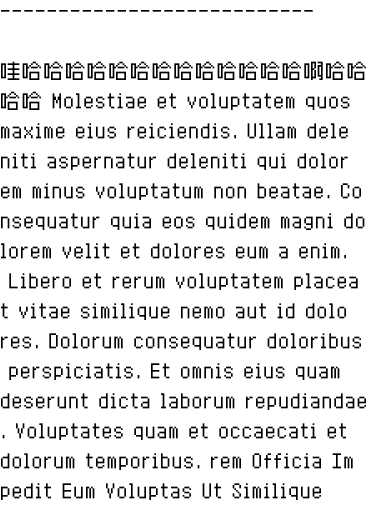
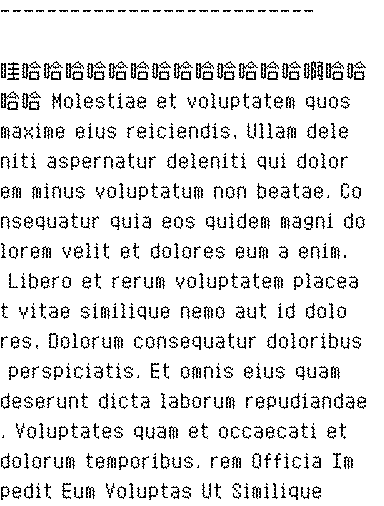
chore

diff --git a/src/dither.rs b/src/dither.rs
@@ -1,4 +1,3 @@
-use image::imageops::{dither, BiLevel};
 use image::GrayImage;
 
 pub struct DitherApply {
@@ -7,117 +6,14 @@ pub struct DitherApply {
 }
 
 impl DitherApply {
-    pub fn new(mut buff: GrayImage) -> Self {
-        dither(&mut buff, &BiLevel);
-
+    pub fn new(buff: GrayImage) -> Self {
         DitherApply {
             size: buff.dimensions(),
             buff,
         }
     }
 
-    // pub fn get_value(&self, x: u32, y: u32) -> u8 {
-    //     let [r, g, b] = self.buff.get_pixel(x, y).0;
-    //     ((r as u16 + g as u16 + b as u16) / 3) as u8
-    // }
-    //
-    // pub fn set_value(&mut self, x: u32, y: u32, value: u8) {
-    //     self.buff.put_pixel(x, y, Rgb([value, value, value]));
-    // }
-    //
-    // pub fn nudge_value(&mut self, x: u32, y: u32, value: i16) {
-    //     let [r, g, b] = self.buff.get_pixel(x, y).0;
-    //
-    //     self.buff.put_pixel(
-    //         x,
-    //         y,
-    //         Rgb([
-    //             (r as i16 + value).clamp(0, 255) as u8,
-    //             (g as i16 + value).clamp(0, 255) as u8,
-    //             (b as i16 + value).clamp(0, 255) as u8,
-    //         ]),
-    //     );
-    // }
-
-    const DITHERBRIGHTNESS: f64 = 0.35;
-    const DITHERCONTRAST: f64 = 3.55;
-    // fn make_apply(&mut self) {
-    //     let (w, h) = self.size;
-    //     let brightness = Self::DITHERBRIGHTNESS;
-    //     let contrast = Self::DITHERCONTRAST * Self::DITHERCONTRAST;
-    //     for y in 0..h {
-    //         for x in 0..w {
-    //             let [r, g, b] = self.buff.get_pixel(x, y).0;
-    //             let mut arr = [r, g, b];
-    //
-    //             for i in 0..3 {
-    //                 let mut t = arr[i] as f64;
-    //                 t += (brightness - 0.5) * 256f64;
-    //                 let t = ((t - 128f64) * contrast + 128f64) as u8;
-    //                 arr[i] = t.clamp(0, 255);
-    //             }
-    //             self.buff.put_pixel(x, y, Rgb(arr));
-    //         }
-    //     }
-    //
-    //     for y in 0..h {
-    //         let bottom_row = y == h - 1;
-    //         for x in 0..w {
-    //             let left_edge = x == 0;
-    //             let right_edge = x == w - 1;
-    //             // let i = (y * w + x) * 4;
-    //             let level = self.get_value(x, y);
-    //             let new_level = if level < 128 { 0 } else { 255 };
-    //
-    //             self.set_value(x, y, new_level);
-    //             let err = level as i16 - new_level as i16;
-    //             if !right_edge {
-    //                 self.nudge_value(x + 1, y, err * 7 / 16);
-    //             }
-    //             if !bottom_row && !left_edge {
-    //                 self.nudge_value(x - 1, y + 1, err * 3 / 16);
-    //             }
-    //             if !bottom_row {
-    //                 self.nudge_value(x, y + 1, err * 5 / 16);
-    //             }
-    //             if !bottom_row && !right_edge {
-    //                 self.nudge_value(x + 1, y + 1, err / 16);
-    //             }
-    //         }
-    //     }
-    // }
-
     pub fn make_image_hex_str(&mut self) -> String {
-        // self.make_apply();
-        // let (x, y) = self.size;
-        // let mut image_bin_str: String = String::new();
-        //
-        // for y in 0..y {
-        //     for x in 0..x {
-        //         let [r, g, b] = self.buff.get_pixel(x, y).0;
-        //         image_bin_str.push(if r as u16 + g as u16 + b as u16 > 600 {
-        //             '0'
-        //         } else {
-        //             '1'
-        //         });
-        //     }
-        // }
-        //
-        // // start bits
-        // image_bin_str = format!("1{}{image_bin_str}", "0".repeat(318));
-        //
-        // // binary to hex
-        // if (image_bin_str.len() % 4) != 0 {
-        //     image_bin_str = "0".repeat(4 - (image_bin_str.len() % 4)) + &image_bin_str;
-        // }
-        //
-        // let mut hex_string = String::new();
-        // for counter in (0..image_bin_str.len()).step_by(4) {
-        //     let chunk = image_bin_str.get(counter..counter + 4).unwrap();
-        //     hex_string.push_str(to_hex(chunk));
-        // }
-        // hex_string
-
         let (x, y) = self.size;
         let mut image_bin_str: String = String::new();
 

diff --git a/src/main.rs b/src/main.rs
@@ -85,16 +85,12 @@ async fn main() -> Result<(), Box<dyn Error>> {
             .await?;
 
         printer
-            .write(
-                cmd_char,
-                SET_THICKNESS.as_slice(),
-                WriteType::WithResponse,
-            )
+            .write(cmd_char, SET_THICKNESS.as_slice(), WriteType::WithResponse)
             .await?;
 
-        // let buffer = generate_image(None, Some("你有新的报道")).unwrap();
+        let buffer = generate_image(None, Some("你有新的报道")).unwrap();
         // let buffer = generate_image(Some("./res/img.png"), None).unwrap();
-        let buffer = generate_image(None, Some("哇哈哈哈哈哈哈哈哈哈哈哈哈哈啊哈哈哈哈 Molestiae et voluptatem quos maxime eius reiciendis. Ullam deleniti aspernatur deleniti qui dolorem minus voluptatum non beatae. Consequatur quia eos quidem magni dolorem velit et dolores eum a enim. Libero et rerum voluptatem placeat vitae similique nemo aut id dolores. Dolorum consequatur doloribus perspiciatis. Et omnis eius quam deserunt dicta laborum repudiandae. Voluptates quam et occaecati et dolorum temporibus. rem Officia Impedit Eum Voluptas Ut Similique")).unwrap();
+        // let buffer = generate_image(None, Some("哇哈哈哈哈哈哈哈哈哈哈哈哈哈啊哈哈哈哈 Molestiae et voluptatem quos maxime eius reiciendis. Ullam deleniti aspernatur deleniti qui dolorem minus voluptatum non beatae. Consequatur quia eos quidem magni dolorem velit et dolores eum a enim. Libero et rerum voluptatem placeat vitae similique nemo aut id dolores. Dolorum consequatur doloribus perspiciatis. Et omnis eius quam deserunt dicta laborum repudiandae. Voluptates quam et occaecati et dolorum temporibus. rem Officia Impedit Eum Voluptas Ut Similique")).unwrap();
 
         let mut dither_apply = DitherApply::new(buffer);
         let image_hex_str = dither_apply.make_image_hex_str();

diff --git a/src/image.rs b/src/image.rs
@@ -1,5 +1,5 @@
 use image::imageops::{dither, BiLevel, Gaussian};
-use image::{GrayImage, Luma, Rgb, RgbImage};
+use image::{GrayImage, Luma};
 use imageproc::definitions::HasBlack;
 use imageproc::drawing::draw_text_mut;
 use rusttype::{Font, Scale};
@@ -10,7 +10,11 @@ pub fn generate_image(src: Option<&str>, text: Option<&str>) -> Result<GrayImage
     if let Some(src) = src {
         return image::open(src)
             .map(|img| img.resize(384, img.height(), Gaussian))
-            .map(|img| img.grayscale().to_luma8())
+            .map(|img| {
+                let mut buff = img.to_luma8();
+                dither(&mut buff, &BiLevel);
+                buff
+            })
             .map_err(|e| e.to_string());
     } else if let Some(text) = text {
         // add --- in front and behind
@@ -72,6 +76,7 @@ pub fn generate_image(src: Option<&str>, text: Option<&str>) -> Result<GrayImage
                 line,
             );
         }
+        dither(&mut image, &BiLevel);
         return Ok(image);
     }
 
